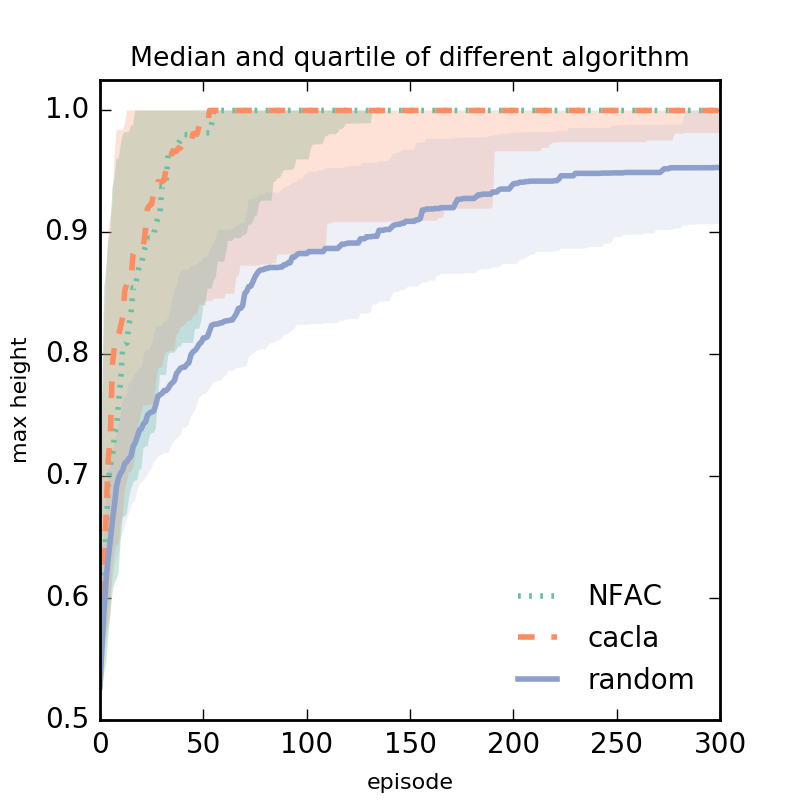
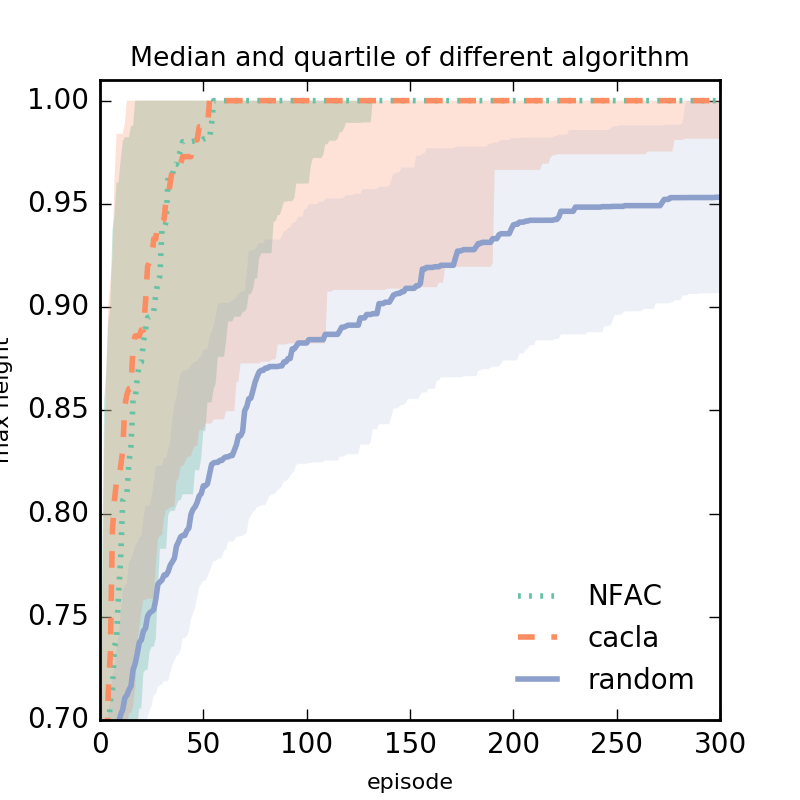
graphs

Changed region(s): [[0.0, 0.125, 0.9062, 0.9062], [0.0312, 0.0938, 0.125, 0.1562]]

diff --git a/esann2016/plotting/plot_goal_acrobot.py b/esann2016/plotting/plot_goal_acrobot.py
@@ -1,0 +1,94 @@
+from pylab import *
+from palettable.colorbrewer.qualitative import Set2_7
+
+
+ # brewer2mpl.get_map args: set name  set type  number of colors
+colors = Set2_7.mpl_colors
+
+ 
+params = {
+    'axes.labelsize': 8,
+    'text.fontsize': 8,
+    'legend.fontsize': 10,
+    'xtick.labelsize': 10,
+    'ytick.labelsize': 10,
+    'text.usetex': False,
+    'figure.figsize': [4, 4]
+}
+rcParams.update(params)
+
+
+def load(f):
+    return np.loadtxt(f)
+
+def perc(data):
+    median = np.zeros(data.shape[1])
+    perc_25 = np.zeros(data.shape[1])
+    perc_75 = np.zeros(data.shape[1])
+    for i in range(0, len(median)):
+        median[i] = np.median(data[:, i])
+        perc_25[i] = np.percentile(data[:, i], 25)
+        perc_75[i] = np.percentile(data[:, i], 75)
+    return median, perc_25, perc_75
+
+data_rand = load('../result_data/adacrobot/cl-off.goal.data')
+data_human = load('../result_data/adacrobot/cl-on.goal.data') 
+data_bootstrap = load('../result_data/adacrobot/random.goal.data')
+#data_power = load('power.data')
+
+
+n_generations = min(data_human.shape[1], data_rand.shape[1] )
+x=np.arange(0, n_generations)
+lx= np.arange(0, n_generations, 1)
+
+discre=1
+x_data_bootstrap = np.arange(0, data_bootstrap.shape[1], discre)
+lx_data_bootstrap = np.arange(0, data_bootstrap.shape[1], discre)
+
+med_rand, perc_25_rand, perc_75_rand = perc(data_rand)
+med_human, perc_25_human, perc_75_human = perc(data_human)
+med_bootstrap, perc_25_bootstrap, perc_75_bootstrap = perc(data_bootstrap)
+#med_power, perc_25_power, perc_75_power = perc(data_power)
+
+fig = figure() # no frame
+ax = fig.add_subplot(111)
+
+ax.set_title('Median and quartile of different algorithm')
+
+# now all plot function should be applied to ax
+ax.fill_between((lx), perc_25_rand[x], perc_75_rand[x], alpha=0.35, linewidth=0, color=colors[0]) 
+ax.fill_between((lx), perc_25_human[x], perc_75_human[x], alpha=0.25, linewidth=0, color=colors[1])
+#ax.fill_between(lx, perc_25_power[lx], perc_75_power[lx], alpha=0.25, linewidth=0, color=colors[3])
+ax.fill_between(x_data_bootstrap, perc_25_bootstrap[x_data_bootstrap], perc_75_bootstrap[x_data_bootstrap], alpha=0.15, linewidth=0, color=colors[2])
+
+ax.plot((lx), med_rand[lx], linewidth=2, linestyle=':', color=colors[0])
+ax.plot((lx), med_human[lx], linewidth=2, linestyle='--', color=colors[1])
+#ax.plot(lx, med_power[lx], linewidth=2, linestyle='-.', color=colors[3])
+ax.plot(lx_data_bootstrap, med_bootstrap[lx_data_bootstrap], linewidth=2, linestyle='-', color=colors[2])
+
+# change xlim to set_xlim
+
+#ax.set_ylim(0, 1.1)
+ax.set_ylim(0.7, 1.01)
+#ax.set_xscale('log')
+#ax.set_yscale('log')
+#ax.set_xlim(128, 1e6)
+ax.set_xlim(0, 300)
+
+#change xticks to set_xticks
+#ax.set_xticks(np.arange(0, 10001, 2500))
+#ax.set_yticks(np.arange(0, 25, 4))
+
+legend = ax.legend(["NFAC", "cacla" , "random"], loc=4);
+legend.set_frame_on(False)
+frame = legend.get_frame()
+frame.set_facecolor('1.0')
+frame.set_edgecolor('1.0')
+
+# put the grid behind
+ax.set_axisbelow(True)
+
+ax.set_xlabel("episode")
+ax.set_ylabel("max height")
+
+fig.savefig('../result_plotting/adacrobot-1ddl.png', dpi=200)

diff --git a/esann2016/plotting/plot_perf_acrobot.py b/esann2016/plotting/plot_perf_acrobot.py
@@ -1,0 +1,95 @@
+from pylab import *
+from palettable.colorbrewer.qualitative import Set2_7
+
+
+ # brewer2mpl.get_map args: set name  set type  number of colors
+colors = Set2_7.mpl_colors
+
+ 
+params = {
+    'axes.labelsize': 8,
+    'text.fontsize': 8,
+    'legend.fontsize': 10,
+    'xtick.labelsize': 10,
+    'ytick.labelsize': 10,
+    'text.usetex': False,
+    'figure.figsize': [4, 4]
+}
+rcParams.update(params)
+
+
+def load(f):
+    return np.loadtxt(f)
+
+def perc(data):
+    median = np.zeros(data.shape[1])
+    perc_25 = np.zeros(data.shape[1])
+    perc_75 = np.zeros(data.shape[1])
+    for i in range(0, len(median)):
+        median[i] = np.median(data[:, i])
+        perc_25[i] = np.percentile(data[:, i], 25)
+        perc_75[i] = np.percentile(data[:, i], 75)
+    return median, perc_25, perc_75
+
+data_rand = load('../result_data/adacrobot/cl-off.perf.data')
+data_human = load('../result_data/adacrobot/cl-on.perf.data') 
+data_bootstrap = load('../result_data/adacrobot/random.perf.data')
+#data_power = load('power.data')
+
+
+n_generations = min(data_human.shape[1], data_rand.shape[1] )
+x=np.arange(0, n_generations)
+lx= np.arange(0, n_generations, 1)
+
+discre=1
+x_data_bootstrap = np.arange(0, data_bootstrap.shape[1], discre)
+lx_data_bootstrap = np.arange(0, data_bootstrap.shape[1], discre)
+
+med_rand, perc_25_rand, perc_75_rand = perc(data_rand)
+med_human, perc_25_human, perc_75_human = perc(data_human)
+med_bootstrap, perc_25_bootstrap, perc_75_bootstrap = perc(data_bootstrap)
+#med_power, perc_25_power, perc_75_power = perc(data_power)
+
+fig = figure() # no frame
+ax = fig.add_subplot(111)
+
+ax.set_title('Median and quartile of different algorithm')
+
+# now all plot function should be applied to ax
+ax.fill_between((lx), perc_25_rand[x], perc_75_rand[x], alpha=0.35, linewidth=0, color=colors[0]) 
+ax.fill_between((lx), perc_25_human[x], perc_75_human[x], alpha=0.25, linewidth=0, color=colors[1])
+#ax.fill_between(lx, perc_25_power[lx], perc_75_power[lx], alpha=0.25, linewidth=0, color=colors[3])
+ax.fill_between(x_data_bootstrap, perc_25_bootstrap[x_data_bootstrap], perc_75_bootstrap[x_data_bootstrap], alpha=0.15, linewidth=0, color=colors[2])
+
+ax.plot((lx), med_rand[lx], linewidth=2, linestyle=':', color=colors[0])
+ax.plot((lx), med_human[lx], linewidth=2, linestyle='--', color=colors[1])
+#ax.plot(lx, med_power[lx], linewidth=2, linestyle='-.', color=colors[3])
+ax.plot(lx_data_bootstrap, med_bootstrap[lx_data_bootstrap], linewidth=2, linestyle='-', color=colors[2])
+
+# change xlim to set_xlim
+
+#ax.invert_yaxis()
+ax.set_ylim(250, 502)
+#ax.set_xscale('log')
+#ax.set_yscale('log')
+#ax.set_xlim(128, 1e6)
+ax.set_xlim(0, 1000)
+
+#change xticks to set_xticks
+#ax.set_xticks(np.arange(0, 10001, 2500))
+#ax.set_yticks(np.arange(0, 25, 4))
+
+legend = ax.legend(["NFAC", "cacla" , "random"], loc=3);
+legend.set_frame_on(False)
+frame = legend.get_frame()
+frame.set_facecolor('1.0')
+frame.set_edgecolor('1.0')
+
+# put the grid behind
+ax.set_axisbelow(True)
+
+ax.set_xlabel("episode")
+ax.set_ylabel("step")
+
+fig.savefig('../result_plotting/adacrobot-1ddl_perf.png', dpi=200)
+

diff --git a/esann2016/result_data/gen_data.m b/esann2016/result_data/gen_data.m
@@ -1,0 +1,23 @@
+X_on = load_dirs('../data/acrobot-1ddl/cacla-on/', 'learning.data', 4, 1, 1);
+X_off = load_dirs('../data/acrobot-1ddl/cacla-off/', 'learning.data', 4,1, 1);
+X_rand = load_dirs('../data/acrobot-1ddl/random/', 'learning.data', 4, 1, 1);
+
+save adacrobot/cl-on.goal.data X_on
+save adacrobot/cl-off.goal.data X_off
+save adacrobot/random.goal.data X_rand
+
+X_on = load_dirs('../data/acrobot-1ddl/cacla-on/', 'learning.data', 6, 1, 0);
+X_off = load_dirs('../data/acrobot-1ddl/cacla-off/', 'learning.data', 6,1, 0);
+X_rand = load_dirs('../data/acrobot-1ddl/random/', 'learning.data', 6, 1, 0);
+
+save adacrobot/cl-on.perf.data X_on
+save adacrobot/cl-off.perf.data X_off
+save adacrobot/random.perf.data X_rand
+
+%plotMedianQ(X_on, 'r')
+%plotMedianQ(X_off, 'y')
+%plotMedianQ(X_ql, 'g')
+%plotMedianQ(X_power, 'g')
+
+%xlim([0,200])
+%xlim([0,100])

diff --git a/esann2016/tex/exp.tex b/esann2016/tex/exp.tex
@@ -9,6 +9,16 @@
 		\label{image:adacrobot}
 	\end{center}
 \end{figure}
+
+\begin{figure}[h]
+	\begin{center}
+		\includegraphics{result_plotting/adacrobot-1ddl_perf.png}
+		\caption{..}
+		\label{image:adacrobot_perf}
+	\end{center}
+\end{figure}
+
+
 Median performance of cacla and NFAC are equivalent. However NFAC is more stable as the lower quartile reach the max performance
 at episode 150 where 300 is needed with cacla.
 
